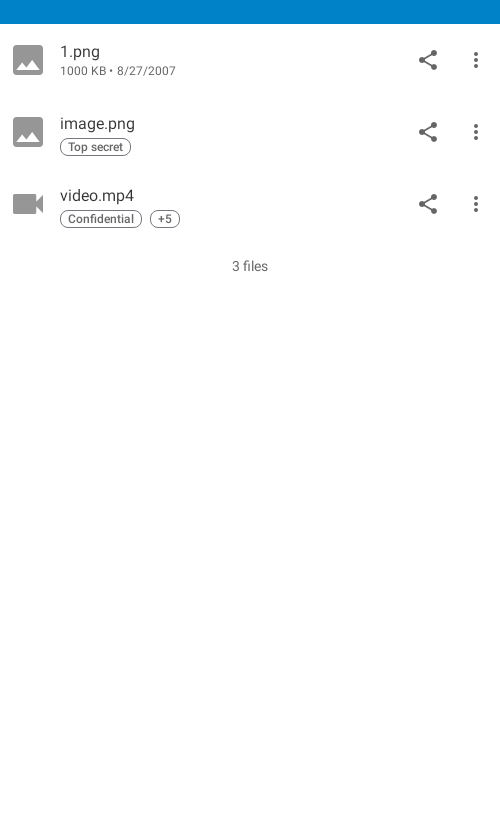
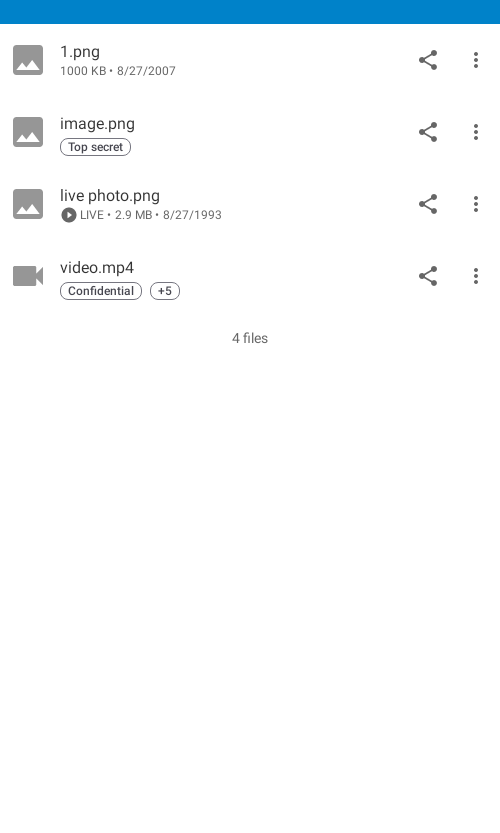
add test

diff --git a/app/src/androidTest/java/com/owncloud/android/ui/fragment/OCFileListFragmentStaticServerIT.kt b/app/src/androidTest/java/com/owncloud/android/ui/fragment/OCFileListFragmentStaticServerIT.kt
@@ -66,6 +66,16 @@ class OCFileListFragmentStaticServerIT : AbstractIT() {
             sut.storageManager.saveFile(this)
         }
 
+        OCFile("/live photo.png").apply {
+            mimeType = "image/png"
+            isPreviewAvailable = false
+            fileLength = 3072000
+            modificationTimestamp = 746443755000
+            parentId = sut.storageManager.getFileByEncryptedRemotePath("/").fileId
+            livePhoto = "/video.mov"
+            sut.storageManager.saveFile(this)
+        }
+
         OCFile("/video.mp4").apply {
             mimeType = "video/mp4"
             isPreviewAvailable = false
